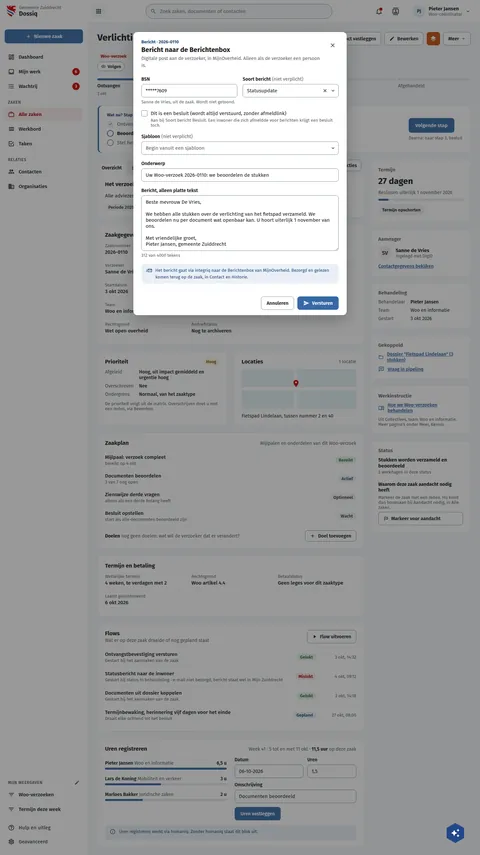
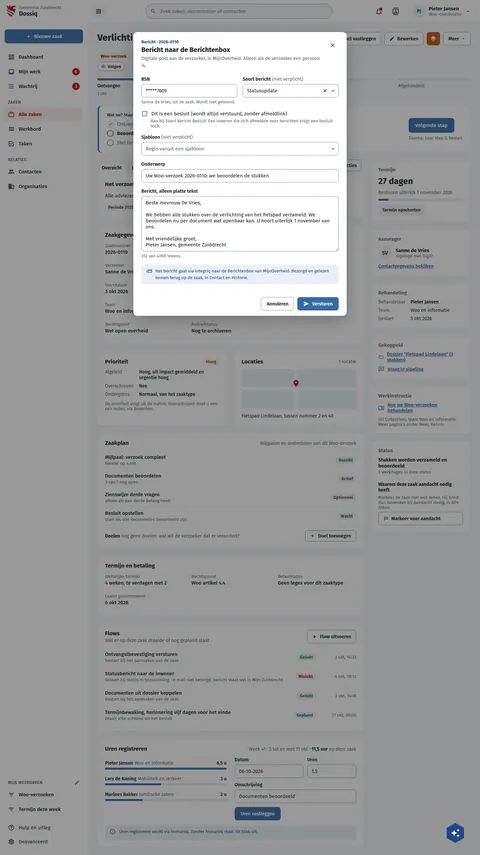
fix(screens): DqBerichtVersturen draws the decision checkbox as NcCheckbox
r32 strict: the "Dit is een besluit" checkbox differed 56.8% visually.
The board drew an 18px native checkbox; live draws NcCheckbox, a 20px
outlined box in the primary colour. The board now draws it that way,
with the input kept for the label, as DqZaakLocatie draws its checkboxes.

Assisted-by: ClaudeCode:claude-opus-5-5

Changed region(s): [[0.2812, 0.1216, 0.6875, 0.3345], [0.5625, 0.3041, 0.7188, 0.3649]]

diff --git a/preview/screens/boards/DqBerichtVersturen.html b/preview/screens/boards/DqBerichtVersturen.html
@@ -323,7 +323,7 @@ a{color:var(--sc-primary, #3669a5)}a:hover{color:var(--sc-primary-deep, #234a78)
         <button type="button" aria-label="Sluiten" style="flex: none; width: 36px; height: 36px; display: inline-flex; align-items: center; justify-content: center; border: 0; border-radius: 18px; background: transparent; color: var(--sc-work-text, #3d4047)"><svg width="20" height="20" viewbox="0 0 24 24" fill="currentColor" aria-hidden="true"><path d="M19,6.41L17.59,5L12,10.59L6.41,5L5,6.41L10.59,12L5,17.59L6.41,19L12,13.41L17.59,19L19,17.59L13.41,12L19,6.41Z"></path></svg></button>
       </div>
       <form style="display: flex; flex-direction: column; gap: 18px; padding: 18px 24px 22px">
-<div style="display: grid; grid-template-columns: repeat(auto-fit, minmax(220px, 1fr)); gap: 14px 16px"><div style="display: flex; flex-direction: column; gap: 6px; min-width: 0"><label for="f4" style="font-size: 14px; font-weight: 600">BSN</label><input id="f4" type="text" value="*****7609" style="box-sizing: border-box; width: 100%; height: 40px; padding: 0 12px; border: 1px solid var(--sc-work-field, #828a95); border-radius: 8px; background: #ffffff; font: 400 15px var(--sc-font, 'Fira Sans'), sans-serif; color: var(--sc-work-ink, #1b1c1d)"><span style="font-size: 13px; color: var(--sc-work-muted, #5e6168)">Sanne de Vries, uit de zaak. Wordt niet getoond.</span></div><div style="display: flex; flex-direction: column; gap: 6px; min-width: 0"><label for="f5" style="font-size: 14px; font-weight: 600">Soort bericht<span style="font-weight: 400; color: var(--sc-work-muted, #5e6168)"> (niet verplicht)</span></label><div style="box-sizing: border-box; width: 100%; height: 40px; padding: 0 8px 0 12px; border: 1px solid var(--sc-work-field, #828a95); border-radius: 8px; background: #ffffff; font: 400 15px var(--sc-font, 'Fira Sans'), sans-serif; color: var(--sc-work-ink, #1b1c1d); display: flex; align-items: center; gap: 4px"><span id="f5" role="combobox" aria-expanded="false" style="flex: 1 1 auto; min-width: 0">Statusupdate</span><button type="button" aria-label="Selectie wissen" style="width: 24px; height: 24px; display: inline-flex; align-items: center; justify-content: center; border: 0; background: transparent; color: var(--sc-work-ink, #1b1c1d); padding: 0"><svg width="16" height="16" viewbox="0 0 24 24" fill="currentColor" aria-hidden="true"><path d="M19,6.41L17.59,5L12,10.59L6.41,5L5,6.41L10.59,12L5,17.59L6.41,19L12,13.41L17.59,19L19,17.59L13.41,12L19,6.41Z"></path></svg></button><span style="display: inline-flex; color: var(--sc-work-ink, #1b1c1d)"><svg width="16" height="16" viewbox="0 0 24 24" fill="currentColor" aria-hidden="true"><path d="M7.41,8.58L12,13.17L16.59,8.58L18,10L12,16L6,10L7.41,8.58Z"></path></svg></span></div></div></div><div style="display: flex; flex-direction: column; gap: 4px"><label for="f5b" style="display: flex; align-items: center; gap: 10px; font-size: 15px"><input id="f5b" type="checkbox" style="width: 18px; height: 18px; accent-color: var(--sc-primary, #3669a5); margin: 0">Dit is een besluit (wordt altijd verstuurd, zonder afmeldlink)</label><span style="font-size: 13px; color: var(--sc-work-muted, #5e6168); padding-left: 28px">Aan bij Soort bericht Besluit. Een inwoner die zich afmeldde voor berichten krijgt een besluit toch.</span></div><div style="display: flex; flex-direction: column; gap: 6px; min-width: 0"><label for="f5c" style="font-size: 14px; font-weight: 600">Sjabloon<span style="font-weight: 400; color: var(--sc-work-muted, #5e6168)"> (niet verplicht)</span></label><div id="f5c" role="combobox" aria-expanded="false" style="box-sizing: border-box; width: 100%; height: 40px; padding: 0 8px 0 12px; border: 1px solid var(--sc-work-field, #828a95); border-radius: 8px; background: #ffffff; font: 400 15px var(--sc-font, 'Fira Sans'), sans-serif; color: var(--sc-work-muted, #5e6168); display: flex; align-items: center; gap: 4px"><span style="flex: 1 1 auto; min-width: 0">Begin vanuit een sjabloon</span><span style="display: inline-flex; color: var(--sc-work-ink, #1b1c1d)"><svg width="16" height="16" viewbox="0 0 24 24" fill="currentColor" aria-hidden="true"><path d="M7.41,8.58L12,13.17L16.59,8.58L18,10L12,16L6,10L7.41,8.58Z"></path></svg></span></div></div><div style="display: flex; flex-direction: column; gap: 6px; min-width: 0"><label for="f6" style="font-size: 14px; font-weight: 600">Onderwerp</label><input id="f6" type="text" value="Uw Woo-verzoek 2026-0110: we beoordelen de stukken" required style="box-sizing: border-box; width: 100%; height: 40px; padding: 0 12px; border: 1px solid var(--sc-work-field, #828a95); border-radius: 8px; background: #ffffff; font: 400 15px var(--sc-font, 'Fira Sans'), sans-serif; color: var(--sc-work-ink, #1b1c1d)"></div><div style="display: flex; flex-direction: column; gap: 6px; min-width: 0"><label for="f7" style="font-size: 14px; font-weight: 600">Bericht, alleen platte tekst</label><textarea id="f7" rows="8" style="box-sizing: border-box; width: 100%; padding: 10px 12px; border: 1px solid var(--sc-work-field, #828a95); border-radius: 8px; font: 400 15px var(--sc-font, 'Fira Sans'), sans-serif; color: var(--sc-work-ink, #1b1c1d); line-height: normal; resize: vertical">Beste mevrouw De Vries,
+<div style="display: grid; grid-template-columns: repeat(auto-fit, minmax(220px, 1fr)); gap: 14px 16px"><div style="display: flex; flex-direction: column; gap: 6px; min-width: 0"><label for="f4" style="font-size: 14px; font-weight: 600">BSN</label><input id="f4" type="text" value="*****7609" style="box-sizing: border-box; width: 100%; height: 40px; padding: 0 12px; border: 1px solid var(--sc-work-field, #828a95); border-radius: 8px; background: #ffffff; font: 400 15px var(--sc-font, 'Fira Sans'), sans-serif; color: var(--sc-work-ink, #1b1c1d)"><span style="font-size: 13px; color: var(--sc-work-muted, #5e6168)">Sanne de Vries, uit de zaak. Wordt niet getoond.</span></div><div style="display: flex; flex-direction: column; gap: 6px; min-width: 0"><label for="f5" style="font-size: 14px; font-weight: 600">Soort bericht<span style="font-weight: 400; color: var(--sc-work-muted, #5e6168)"> (niet verplicht)</span></label><div style="box-sizing: border-box; width: 100%; height: 40px; padding: 0 8px 0 12px; border: 1px solid var(--sc-work-field, #828a95); border-radius: 8px; background: #ffffff; font: 400 15px var(--sc-font, 'Fira Sans'), sans-serif; color: var(--sc-work-ink, #1b1c1d); display: flex; align-items: center; gap: 4px"><span id="f5" role="combobox" aria-expanded="false" style="flex: 1 1 auto; min-width: 0">Statusupdate</span><button type="button" aria-label="Selectie wissen" style="width: 24px; height: 24px; display: inline-flex; align-items: center; justify-content: center; border: 0; background: transparent; color: var(--sc-work-ink, #1b1c1d); padding: 0"><svg width="16" height="16" viewbox="0 0 24 24" fill="currentColor" aria-hidden="true"><path d="M19,6.41L17.59,5L12,10.59L6.41,5L5,6.41L10.59,12L5,17.59L6.41,19L12,13.41L17.59,19L19,17.59L13.41,12L19,6.41Z"></path></svg></button><span style="display: inline-flex; color: var(--sc-work-ink, #1b1c1d)"><svg width="16" height="16" viewbox="0 0 24 24" fill="currentColor" aria-hidden="true"><path d="M7.41,8.58L12,13.17L16.59,8.58L18,10L12,16L6,10L7.41,8.58Z"></path></svg></span></div></div></div><div style="display: flex; flex-direction: column; gap: 4px"><label for="f5b" style="display: flex; align-items: center; gap: 10px; font-size: 15px"><input id="f5b" type="checkbox" style="position: absolute; width: 1px; height: 1px; margin: -1px; overflow: hidden; clip: rect(0 0 0 0); white-space: nowrap; border: 0"><svg width="20" height="20" viewbox="0 0 24 24" fill="#3669a5" aria-hidden="true" style="flex: none;fill:var(--sc-primary, #3669a5)"><path d="M19,3H5C3.89,3 3,3.89 3,5V19A2,2 0 0,0 5,21H19A2,2 0 0,0 21,19V5C21,3.89 20.1,3 19,3M19,5V19H5V5H19Z"></path></svg>Dit is een besluit (wordt altijd verstuurd, zonder afmeldlink)</label><span style="font-size: 13px; color: var(--sc-work-muted, #5e6168); padding-left: 28px">Aan bij Soort bericht Besluit. Een inwoner die zich afmeldde voor berichten krijgt een besluit toch.</span></div><div style="display: flex; flex-direction: column; gap: 6px; min-width: 0"><label for="f5c" style="font-size: 14px; font-weight: 600">Sjabloon<span style="font-weight: 400; color: var(--sc-work-muted, #5e6168)"> (niet verplicht)</span></label><div id="f5c" role="combobox" aria-expanded="false" style="box-sizing: border-box; width: 100%; height: 40px; padding: 0 8px 0 12px; border: 1px solid var(--sc-work-field, #828a95); border-radius: 8px; background: #ffffff; font: 400 15px var(--sc-font, 'Fira Sans'), sans-serif; color: var(--sc-work-muted, #5e6168); display: flex; align-items: center; gap: 4px"><span style="flex: 1 1 auto; min-width: 0">Begin vanuit een sjabloon</span><span style="display: inline-flex; color: var(--sc-work-ink, #1b1c1d)"><svg width="16" height="16" viewbox="0 0 24 24" fill="currentColor" aria-hidden="true"><path d="M7.41,8.58L12,13.17L16.59,8.58L18,10L12,16L6,10L7.41,8.58Z"></path></svg></span></div></div><div style="display: flex; flex-direction: column; gap: 6px; min-width: 0"><label for="f6" style="font-size: 14px; font-weight: 600">Onderwerp</label><input id="f6" type="text" value="Uw Woo-verzoek 2026-0110: we beoordelen de stukken" required style="box-sizing: border-box; width: 100%; height: 40px; padding: 0 12px; border: 1px solid var(--sc-work-field, #828a95); border-radius: 8px; background: #ffffff; font: 400 15px var(--sc-font, 'Fira Sans'), sans-serif; color: var(--sc-work-ink, #1b1c1d)"></div><div style="display: flex; flex-direction: column; gap: 6px; min-width: 0"><label for="f7" style="font-size: 14px; font-weight: 600">Bericht, alleen platte tekst</label><textarea id="f7" rows="8" style="box-sizing: border-box; width: 100%; padding: 10px 12px; border: 1px solid var(--sc-work-field, #828a95); border-radius: 8px; font: 400 15px var(--sc-font, 'Fira Sans'), sans-serif; color: var(--sc-work-ink, #1b1c1d); line-height: normal; resize: vertical">Beste mevrouw De Vries,
 
 We hebben alle stukken over de verlichting van het fietspad verzameld. We beoordelen nu per document wat openbaar kan. U hoort uiterlijk 1 november van ons.
 

diff --git a/screens-src/zuiddrecht/DqBerichtVersturen.dc.html b/screens-src/zuiddrecht/DqBerichtVersturen.dc.html
@@ -173,7 +173,7 @@ a{color:#3669a5}a:hover{color:#234a78}
         <button type="button" aria-label="Sluiten" style="flex: none; width: 36px; height: 36px; display: inline-flex; align-items: center; justify-content: center; border: 0; border-radius: 18px; background: transparent; color: #3d4047"><svg width="20" height="20" viewBox="0 0 24 24" fill="currentColor" aria-hidden="true"><path d="M19,6.41L17.59,5L12,10.59L6.41,5L5,6.41L10.59,12L5,17.59L6.41,19L12,13.41L17.59,19L19,17.59L13.41,12L19,6.41Z"></path></svg></button>
       </div>
       <form style="display: flex; flex-direction: column; gap: 18px; padding: 18px 24px 22px">
-<div style="display: grid; grid-template-columns: repeat(auto-fit, minmax(220px, 1fr)); gap: 14px 16px"><div style="display: flex; flex-direction: column; gap: 6px; min-width: 0"><label for="f4" style="font-size: 14px; font-weight: 600">BSN</label><input id="f4" type="text" value="*****7609" style="box-sizing: border-box; width: 100%; height: 40px; padding: 0 12px; border: 1px solid #828a95; border-radius: 8px; background: #ffffff; font: 400 15px 'Fira Sans', sans-serif; color: #1b1c1d"><span style="font-size: 13px; color: #5e6168">Sanne de Vries, uit de zaak. Wordt niet getoond.</span></div><div style="display: flex; flex-direction: column; gap: 6px; min-width: 0"><label for="f5" style="font-size: 14px; font-weight: 600">Soort bericht<span style="font-weight: 400; color: #5e6168"> (niet verplicht)</span></label><div style="box-sizing: border-box; width: 100%; height: 40px; padding: 0 8px 0 12px; border: 1px solid #828a95; border-radius: 8px; background: #ffffff; font: 400 15px 'Fira Sans', sans-serif; color: #1b1c1d; display: flex; align-items: center; gap: 4px"><span id="f5" role="combobox" aria-expanded="false" style="flex: 1 1 auto; min-width: 0">Statusupdate</span><button type="button" aria-label="Selectie wissen" style="width: 24px; height: 24px; display: inline-flex; align-items: center; justify-content: center; border: 0; background: transparent; color: #1b1c1d; padding: 0"><svg width="16" height="16" viewBox="0 0 24 24" fill="currentColor" aria-hidden="true"><path d="M19,6.41L17.59,5L12,10.59L6.41,5L5,6.41L10.59,12L5,17.59L6.41,19L12,13.41L17.59,19L19,17.59L13.41,12L19,6.41Z"></path></svg></button><span style="display: inline-flex; color: #1b1c1d"><svg width="16" height="16" viewBox="0 0 24 24" fill="currentColor" aria-hidden="true"><path d="M7.41,8.58L12,13.17L16.59,8.58L18,10L12,16L6,10L7.41,8.58Z"></path></svg></span></div></div></div><div style="display: flex; flex-direction: column; gap: 4px"><label for="f5b" style="display: flex; align-items: center; gap: 10px; font-size: 15px"><input id="f5b" type="checkbox" style="width: 18px; height: 18px; accent-color: #3669a5; margin: 0">Dit is een besluit (wordt altijd verstuurd, zonder afmeldlink)</label><span style="font-size: 13px; color: #5e6168; padding-left: 28px">Aan bij Soort bericht Besluit. Een inwoner die zich afmeldde voor berichten krijgt een besluit toch.</span></div><div style="display: flex; flex-direction: column; gap: 6px; min-width: 0"><label for="f5c" style="font-size: 14px; font-weight: 600">Sjabloon<span style="font-weight: 400; color: #5e6168"> (niet verplicht)</span></label><div id="f5c" role="combobox" aria-expanded="false" style="box-sizing: border-box; width: 100%; height: 40px; padding: 0 8px 0 12px; border: 1px solid #828a95; border-radius: 8px; background: #ffffff; font: 400 15px 'Fira Sans', sans-serif; color: #5e6168; display: flex; align-items: center; gap: 4px"><span style="flex: 1 1 auto; min-width: 0">Begin vanuit een sjabloon</span><span style="display: inline-flex; color: #1b1c1d"><svg width="16" height="16" viewBox="0 0 24 24" fill="currentColor" aria-hidden="true"><path d="M7.41,8.58L12,13.17L16.59,8.58L18,10L12,16L6,10L7.41,8.58Z"></path></svg></span></div></div><div style="display: flex; flex-direction: column; gap: 6px; min-width: 0"><label for="f6" style="font-size: 14px; font-weight: 600">Onderwerp</label><input id="f6" type="text" value="Uw Woo-verzoek 2026-0110: we beoordelen de stukken" required style="box-sizing: border-box; width: 100%; height: 40px; padding: 0 12px; border: 1px solid #828a95; border-radius: 8px; background: #ffffff; font: 400 15px 'Fira Sans', sans-serif; color: #1b1c1d"></div><div style="display: flex; flex-direction: column; gap: 6px; min-width: 0"><label for="f7" style="font-size: 14px; font-weight: 600">Bericht, alleen platte tekst</label><textarea id="f7" rows="8" style="box-sizing: border-box; width: 100%; padding: 10px 12px; border: 1px solid #828a95; border-radius: 8px; font: 400 15px 'Fira Sans', sans-serif; color: #1b1c1d; line-height: normal; resize: vertical">Beste mevrouw De Vries,
+<div style="display: grid; grid-template-columns: repeat(auto-fit, minmax(220px, 1fr)); gap: 14px 16px"><div style="display: flex; flex-direction: column; gap: 6px; min-width: 0"><label for="f4" style="font-size: 14px; font-weight: 600">BSN</label><input id="f4" type="text" value="*****7609" style="box-sizing: border-box; width: 100%; height: 40px; padding: 0 12px; border: 1px solid #828a95; border-radius: 8px; background: #ffffff; font: 400 15px 'Fira Sans', sans-serif; color: #1b1c1d"><span style="font-size: 13px; color: #5e6168">Sanne de Vries, uit de zaak. Wordt niet getoond.</span></div><div style="display: flex; flex-direction: column; gap: 6px; min-width: 0"><label for="f5" style="font-size: 14px; font-weight: 600">Soort bericht<span style="font-weight: 400; color: #5e6168"> (niet verplicht)</span></label><div style="box-sizing: border-box; width: 100%; height: 40px; padding: 0 8px 0 12px; border: 1px solid #828a95; border-radius: 8px; background: #ffffff; font: 400 15px 'Fira Sans', sans-serif; color: #1b1c1d; display: flex; align-items: center; gap: 4px"><span id="f5" role="combobox" aria-expanded="false" style="flex: 1 1 auto; min-width: 0">Statusupdate</span><button type="button" aria-label="Selectie wissen" style="width: 24px; height: 24px; display: inline-flex; align-items: center; justify-content: center; border: 0; background: transparent; color: #1b1c1d; padding: 0"><svg width="16" height="16" viewBox="0 0 24 24" fill="currentColor" aria-hidden="true"><path d="M19,6.41L17.59,5L12,10.59L6.41,5L5,6.41L10.59,12L5,17.59L6.41,19L12,13.41L17.59,19L19,17.59L13.41,12L19,6.41Z"></path></svg></button><span style="display: inline-flex; color: #1b1c1d"><svg width="16" height="16" viewBox="0 0 24 24" fill="currentColor" aria-hidden="true"><path d="M7.41,8.58L12,13.17L16.59,8.58L18,10L12,16L6,10L7.41,8.58Z"></path></svg></span></div></div></div><div style="display: flex; flex-direction: column; gap: 4px"><label for="f5b" style="display: flex; align-items: center; gap: 10px; font-size: 15px"><input id="f5b" type="checkbox" style="position: absolute; width: 1px; height: 1px; margin: -1px; overflow: hidden; clip: rect(0 0 0 0); white-space: nowrap; border: 0"><svg width="20" height="20" viewBox="0 0 24 24" fill="#3669a5" aria-hidden="true" style="flex: none"><path d="M19,3H5C3.89,3 3,3.89 3,5V19A2,2 0 0,0 5,21H19A2,2 0 0,0 21,19V5C21,3.89 20.1,3 19,3M19,5V19H5V5H19Z"></path></svg>Dit is een besluit (wordt altijd verstuurd, zonder afmeldlink)</label><span style="font-size: 13px; color: #5e6168; padding-left: 28px">Aan bij Soort bericht Besluit. Een inwoner die zich afmeldde voor berichten krijgt een besluit toch.</span></div><div style="display: flex; flex-direction: column; gap: 6px; min-width: 0"><label for="f5c" style="font-size: 14px; font-weight: 600">Sjabloon<span style="font-weight: 400; color: #5e6168"> (niet verplicht)</span></label><div id="f5c" role="combobox" aria-expanded="false" style="box-sizing: border-box; width: 100%; height: 40px; padding: 0 8px 0 12px; border: 1px solid #828a95; border-radius: 8px; background: #ffffff; font: 400 15px 'Fira Sans', sans-serif; color: #5e6168; display: flex; align-items: center; gap: 4px"><span style="flex: 1 1 auto; min-width: 0">Begin vanuit een sjabloon</span><span style="display: inline-flex; color: #1b1c1d"><svg width="16" height="16" viewBox="0 0 24 24" fill="currentColor" aria-hidden="true"><path d="M7.41,8.58L12,13.17L16.59,8.58L18,10L12,16L6,10L7.41,8.58Z"></path></svg></span></div></div><div style="display: flex; flex-direction: column; gap: 6px; min-width: 0"><label for="f6" style="font-size: 14px; font-weight: 600">Onderwerp</label><input id="f6" type="text" value="Uw Woo-verzoek 2026-0110: we beoordelen de stukken" required style="box-sizing: border-box; width: 100%; height: 40px; padding: 0 12px; border: 1px solid #828a95; border-radius: 8px; background: #ffffff; font: 400 15px 'Fira Sans', sans-serif; color: #1b1c1d"></div><div style="display: flex; flex-direction: column; gap: 6px; min-width: 0"><label for="f7" style="font-size: 14px; font-weight: 600">Bericht, alleen platte tekst</label><textarea id="f7" rows="8" style="box-sizing: border-box; width: 100%; padding: 10px 12px; border: 1px solid #828a95; border-radius: 8px; font: 400 15px 'Fira Sans', sans-serif; color: #1b1c1d; line-height: normal; resize: vertical">Beste mevrouw De Vries,
 
 We hebben alle stukken over de verlichting van het fietspad verzameld. We beoordelen nu per document wat openbaar kan. U hoort uiterlijk 1 november van ons.
 
